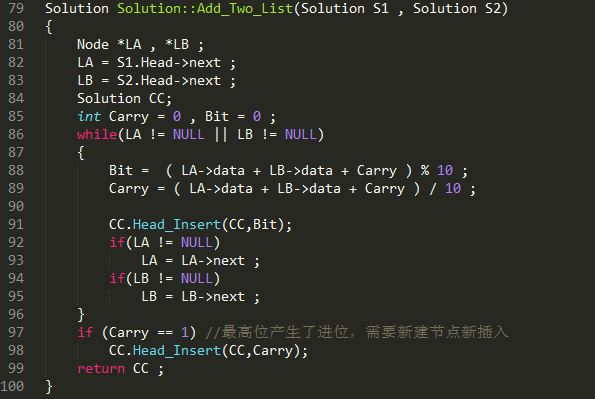
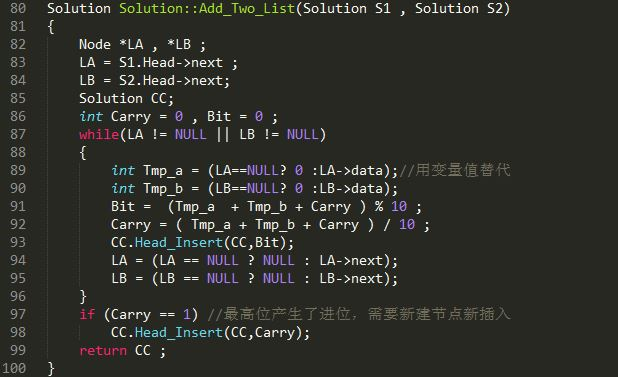
更精简的代码

diff --git a/L005_Add_Two_List.cpp b/L005_Add_Two_List.cpp
@@ -7,10 +7,11 @@
       C: Head->5->1->2->NULL
 即是：123 + 992 = 1115
 解法：
-    1- 从个位相加起，申请carry保存进位，设立一个循环直到A B 链表其中有一个变为空；
-    2- carry = (A->data + B->data)/10 , Bit = (A->data + B->data)%10  ；
-    3- 若有进位即carry =1，则也把进位加起来 ,即是Bit = Bit + carry ；
-    4- 若退出循环，判断是那个链表为空，在把另一个链表和carry相加，若有进位则新建一个节点储存;
+    1- 从个位相加起，申请carry保存进位，设立一个循环直到A B 链表都要变为空；
+    2-  Bit = (A->data + B->data)%10 , carry = (A->data + B->data)/10 ；
+    3- 若有进位即carry = 1，则也把进位加起来 ,即是Bit = Bit + carry ；
+    4- 若A链表不为空，则A = A->next , 若B链表不为空，则B = B->next ；
+    5- 若最高位有进位，即是carry==1，则新建一个节点储存;
 */
 #include <iostream>
 #include <stack>
